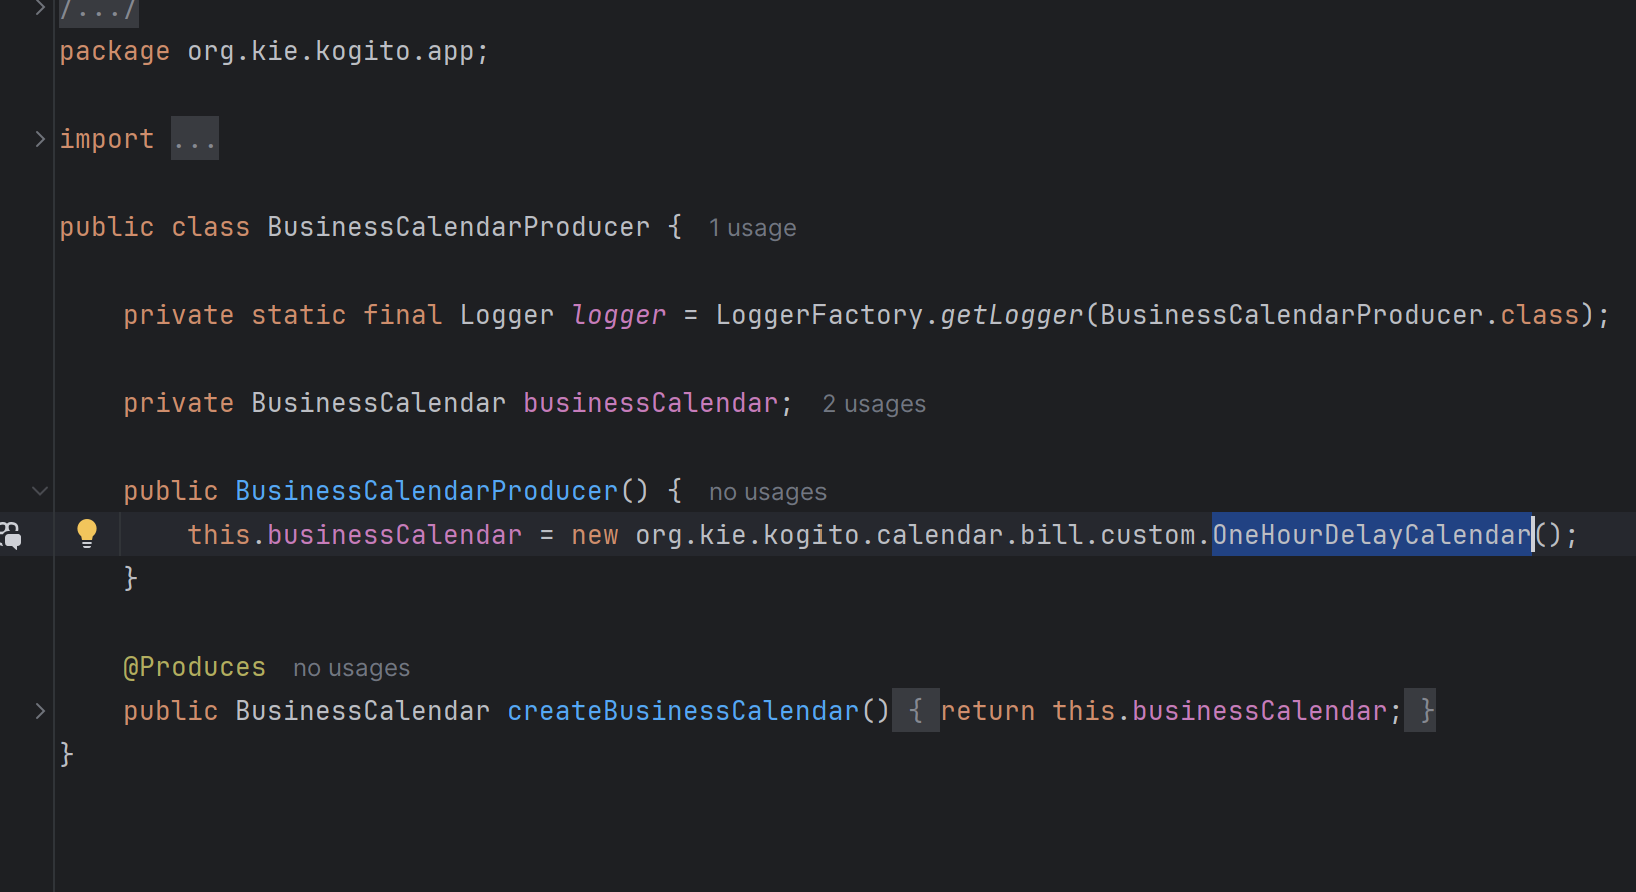
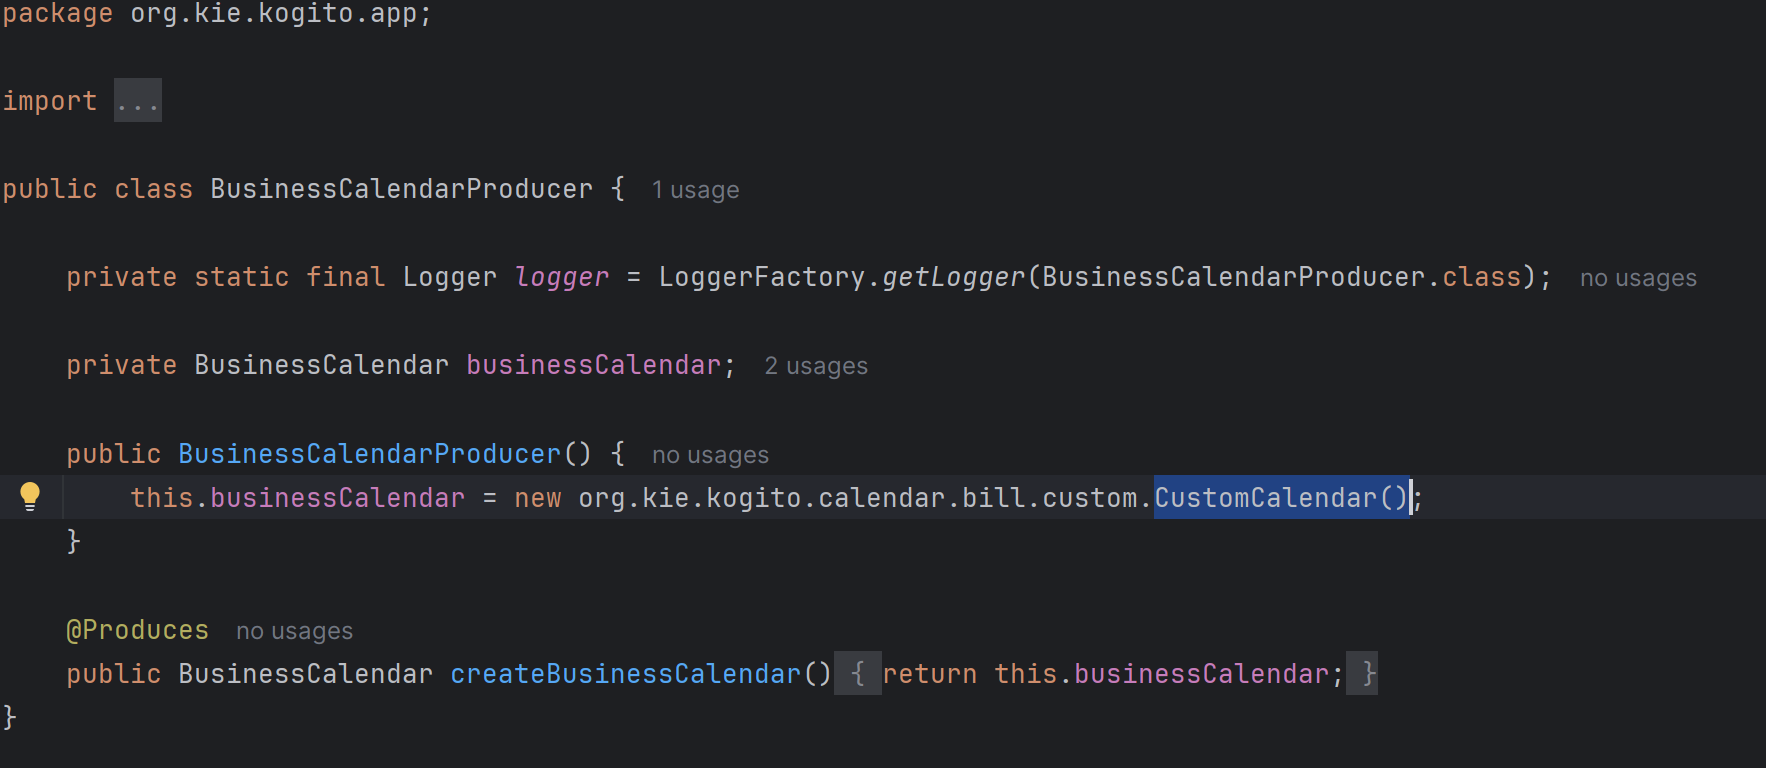
class_name_update

diff --git a/kogito-quarkus-examples/process-business-calendar-quarkus-example/README.md b/kogito-quarkus-examples/process-business-calendar-quarkus-example/README.md
@@ -303,7 +303,7 @@ This guide explains how to implement a custom business calendar allowing full fl
 
 **Steps**
 1. **Navigate to**: *kogito-quarkus-examples/process-business-calendar-quarkus-example/src/main/java/org/kie/kogito/calendar*
-2. **Create a new custom business calendar class** (e.g., OneHourDelayCalendar.java).
+2. **Create a new custom business calendar class** (e.g., CustomCalendar.java).
 3. Ensure it implements the BusinessCalendar interface.The implementation should be a concrete class(not an interface or abstract class).
 4. Set the property ```kogito.processes.businessCalendar=org.kie.kogito.calendar.custom.CustomCalendar```  in application.properties to the fully qualified class name of the custom business calendar.
 5. To test the created custom business calendar with property set in application.properties, calendar.properties should not exist.
@@ -323,7 +323,7 @@ import org.kie.kogito.calendar.BusinessCalendar;
  * Custom Business Calendar Example.
  * Modify this class to implement your own scheduling logic.
  */
-public class OneHourDelayCalendar implements BusinessCalendar {
+public class CustomCalendar implements BusinessCalendar {
 
     @Override
     public long calculateBusinessTimeAsDuration(String timeExpression) {
@@ -340,7 +340,7 @@ public class OneHourDelayCalendar implements BusinessCalendar {
 ```
 ---
 
-### Testing custom calendar implementation (OneHourDelayCalendar).
+### Testing custom calendar implementation
 
 To verify that your custom implementation works:
 1.	Run:

diff --git a/kogito-springboot-examples/process-business-calendar-springboot-example/README.md b/kogito-springboot-examples/process-business-calendar-springboot-example/README.md
@@ -294,7 +294,7 @@ This guide explains how to implement a custom business calendar allowing full fl
 
 **Steps**
 1. **Navigate to**: *kogito-quarkus-examples/process-business-calendar-quarkus-example/src/main/java/org/kie/kogito/calendar*
-2. **Create a new custom business calendar class** (e.g., OneHourDelayCalendar.java).
+2. **Create a new custom business calendar class** (e.g., CustomCalendar.java).
 3. Ensure it implements the BusinessCalendar interface.The implementation should be a concrete class(not an interface or abstract class).
 4. Set the property ```kogito.processes.businessCalendar=org.kie.kogito.calendar.custom.CustomCalendar```  in application.properties to the fully qualified class name of the custom business calendar.
 5. To test the created custom business calendar with property set in application.properties, calendar.properties should not exist.
@@ -314,7 +314,7 @@ import org.kie.kogito.calendar.BusinessCalendar;
  * Custom Business Calendar Example.
  * Modify this class to implement your own scheduling logic.
  */
-public class OneHourDelayCalendar implements BusinessCalendar {
+public class CustomCalendar implements BusinessCalendar {
 
     @Override
     public long calculateBusinessTimeAsDuration(String timeExpression) {
@@ -331,7 +331,7 @@ public class OneHourDelayCalendar implements BusinessCalendar {
 ```
 ---
 
-### Testing custom calendar implementation (OneHourDelayCalendar).
+### Testing custom calendar implementation
 
 To verify that your custom implementation works:
 1.	Run:
